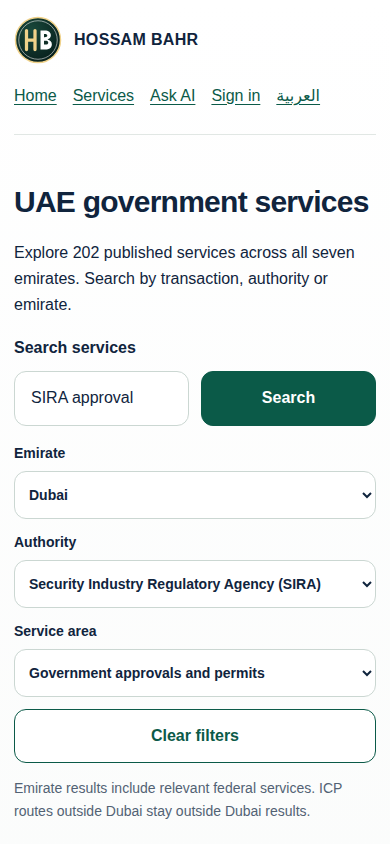
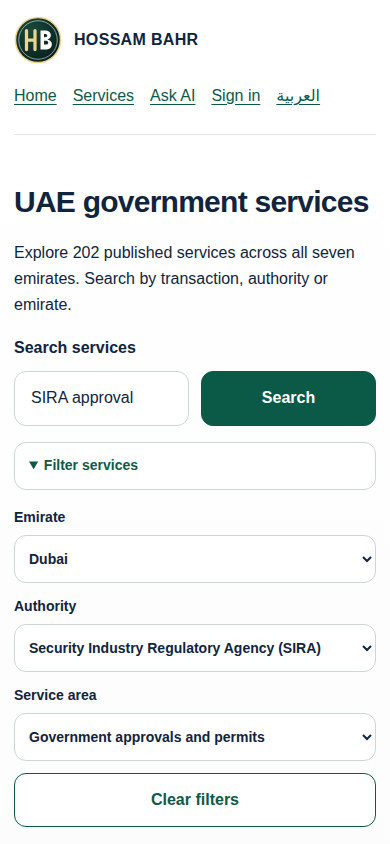
Simplify the phone directory with optional filters (#566)
Keep native filters collapsed on an initial phone visit and visible on desktop or when restoring selections. Preserve reset, semantic search, SIRA and seven-emirate discovery. Maintain compatibility with previous directory HTML during publication. Six-width real preview journeys, local compatibility regression, English checks and geometry passed.

diff --git a/english-catalog.js b/english-catalog.js
@@ -3,10 +3,12 @@ import {filterDirectoryServices} from './english-directory-filters.js';
 const form=document.querySelector('[data-en-search]');
 if(form){
  const input=form.querySelector('input'),status=document.querySelector('[data-en-search-status]'),empty=document.querySelector('[data-en-search-empty]');
- const controls=Object.fromEntries(['emirate','authority','category'].map(key=>[key,form.elements.namedItem(key)]));
+ const controls=Object.fromEntries(['emirate','authority','category'].map(key=>[key,form.elements.namedItem(key)]).filter(([,select])=>select));
+ const panel=form.querySelector('.en-directory-filter-panel');
+ const wide=()=>window.matchMedia('(min-width: 801px)').matches;
  const cards=[...document.querySelectorAll('[data-service-slug]')],bySlug=new Map(cards.map(card=>[card.dataset.serviceSlug,card]));
  let catalogPromise,revision=0;
- function restore(){const params=new URLSearchParams(location.search);input.value=params.get('q')||'';for(const [key,select]of Object.entries(controls)){const value=params.get(key)||'';select.value=[...select.options].some(o=>o.value===value)?value:'';}}
+ function restore(){const params=new URLSearchParams(location.search);input.value=params.get('q')||'';for(const [key,select]of Object.entries(controls)){const value=params.get(key)||'';select.value=[...select.options].some(o=>o.value===value)?value:'';}if(panel)panel.open=wide()||Object.values(controls).some(select=>select.value);}
  async function search(event){
   event?.preventDefault();const request=++revision;
   try{
@@ -22,7 +24,7 @@ if(form){
  }
  form.addEventListener('submit',search);
  for(const select of Object.values(controls))select.addEventListener('change',search);
- form.addEventListener('reset',event=>{event.preventDefault();input.value='';for(const select of Object.values(controls))select.value='';search();});
+ form.addEventListener('reset',event=>{event.preventDefault();input.value='';for(const select of Object.values(controls))select.value='';if(panel)panel.open=wide();search();});
  window.addEventListener('popstate',()=>{restore();search();});restore();
  if(input.value||Object.values(controls).some(select=>select.value))search();
 }

diff --git a/english-catalog.css b/english-catalog.css
@@ -10,3 +10,5 @@ section[id],.hb-service-pathways[id]{scroll-margin-top:20px}
 
 /* Directory-only controls share the existing green-and-white interface. */
 .en-directory-filters{display:grid;grid-template-columns:repeat(3,minmax(0,1fr)) auto;gap:12px;align-items:end;margin-top:16px}.en-directory-filters label{display:grid;gap:6px;min-width:0;font-size:14px}.en-directory-filters select{font:inherit;width:100%;min-width:0;min-height:48px;padding:10px;border:1px solid #cbd7d2;border-radius:12px;background:#fff;color:#10243d}.en-directory-filters button{background:#fff;color:#0b5a48}.en-filter-note{font-size:14px;color:#526274}@media(max-width:800px){.en-directory-filters{grid-template-columns:repeat(2,minmax(0,1fr))}}@media(max-width:420px){.en-directory-filters{grid-template-columns:1fr}}
+
+.en-directory-filter-panel{margin-top:16px}.en-directory-filter-panel>summary{cursor:pointer;min-height:48px;padding:11px 14px;border:1px solid #cbd7d2;border-radius:12px;color:#0b5a48;background:#fff;font-size:14px;font-weight:700}.en-directory-filter-panel[open]>summary{margin-bottom:12px}.en-directory-filter-panel:not([open]) .en-directory-filters,.en-directory-filter-panel:not([open]) .en-filter-note{display:none}
